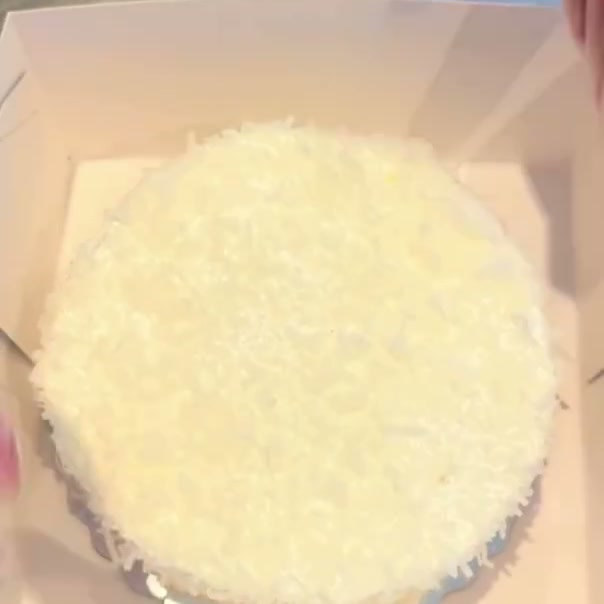
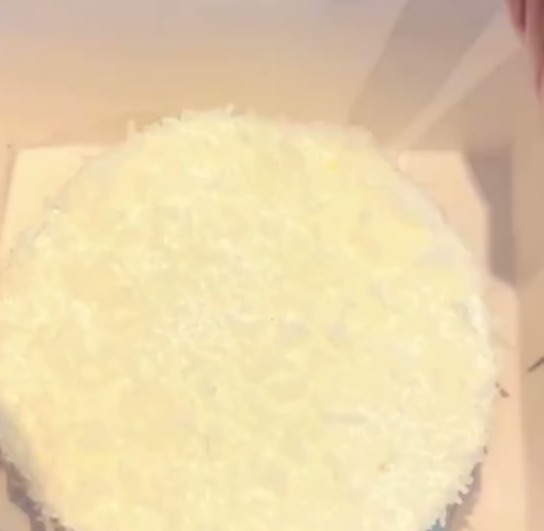
patticake-demo-polish: fix share cards, checkout math copy, and coconut hands

diff --git a/yumkitchen-web/app/patticake/checkout/page.tsx b/yumkitchen-web/app/patticake/checkout/page.tsx
@@ -53,6 +53,7 @@ export default function CheckoutPage() {
   const quote = quoteFor(itemsSubtotal, recipients.length);
   const total = quote.total;
   const errorEntries = Object.entries(errors);
+  const chosenDate = deliveryDate || minDate;
 
   useEffect(() => {
     if (validationAttempt === 0) return;
@@ -87,8 +88,8 @@ export default function CheckoutPage() {
       if (!r.state) next[`r${i}-state`] = 'Choose a state';
       if (!/^\d{5}$/.test(r.zip.trim())) next[`r${i}-zip`] = 'Enter a 5-digit ZIP';
     });
-    if (!deliveryDate) next.deliveryDate = 'Choose a delivery date';
-    else if (deliveryDate < minDate) next.deliveryDate = 'Choose a date at least three days out';
+    if (!chosenDate) next.deliveryDate = 'Choose a delivery date';
+    else if (chosenDate < minDate) next.deliveryDate = 'Choose a date at least three days out';
     if (!senderName.trim()) next.senderName = 'Add your name';
     if (!/^[^@\s]+@[^@\s]+\.[^@\s]+$/.test(senderEmail.trim())) next.senderEmail = 'Enter a valid email';
     if (card.number.replace(/\s/g, '').length < 15) next.cardNumber = 'Enter a card number';
@@ -109,7 +110,7 @@ export default function CheckoutPage() {
     const savedIds = recipients.map((r) => saveRecipient(r));
     await submitOrder({
       recipients: savedIds,
-      deliveryDate,
+      deliveryDate: chosenDate,
       cakeMessage: cakeMessage.trim(),
       giftMessage,
       senderName,
@@ -182,7 +183,9 @@ export default function CheckoutPage() {
           {/* Recipients */}
           <section aria-labelledby="ship-heading">
             <h2 id="ship-heading" className="text-h3 lowercase">who is it going to?</h2>
-            <p className="mt-1 text-base leading-7 text-body">Send one cake, or the same cake to several people at once.</p>
+            <p className="mt-1 text-base leading-7 text-body">
+              One box goes to one address. Add another address and that person gets their own cake, plus demo shipping.
+            </p>
 
             {usableSaved().length > 0 && (
               <div className="mt-4 flex flex-wrap gap-2">
@@ -301,13 +304,20 @@ export default function CheckoutPage() {
             <button
               type="button"
               onClick={() => {
+                if (recipients.length >= 6) return;
                 setRecipients((prev) => [...prev, blankRecipient()]);
                 setErrors({});
               }}
               className="btn-secondary mt-4"
+              disabled={recipients.length >= 6}
             >
               + Send to another address
             </button>
+            <p className="mt-2 text-sm leading-6 text-body">
+              {recipients.length >= 6
+                ? 'Six addresses is the demo maximum.'
+                : 'Each extra address adds another cake and the demo shipping rate.'}
+            </p>
           </section>
 
           {/* Delivery + gift */}
@@ -320,7 +330,7 @@ export default function CheckoutPage() {
                 name="delivery-date"
                 type="date"
                 min={minDate}
-                value={deliveryDate}
+                value={chosenDate}
                 onChange={(e) => {
                   setDeliveryDate(e.target.value);
                   clearError('deliveryDate');
@@ -337,12 +347,12 @@ export default function CheckoutPage() {
                 onChange={(e) => setCakeMessage(e.target.value)}
                 placeholder="love you"
               />
-              <span className="text-sm text-body">{cakeMessage.length}/28. Goes on top of the cake.</span>
+              <span className="text-sm text-body">{cakeMessage.length}/28. Goes on top of the cake. Same words for every address.</span>
             </label>
             <label className="field">
               <span>Gift note (optional)</span>
               <textarea rows={3} maxLength={240} value={giftMessage} onChange={(e) => setGiftMessage(e.target.value)} placeholder="Happy birthday! Wish we could share a slice with you." />
-              <span className="text-sm text-body">{giftMessage.length}/240. Travels with the box.</span>
+              <span className="text-sm text-body">{giftMessage.length}/240. Travels with the box. Same words for every address.</span>
             </label>
           </section>
 

diff --git a/yumkitchen-web/lib/site.ts b/yumkitchen-web/lib/site.ts
@@ -95,7 +95,7 @@ export const pageMeta = {
   },
   patticakeHome: {
     title: 'Patticake',
-    description: 'Ship a Cake, Pick Up Locally, and visit the yum! Kitchen and Bakery restaurant pages.',
+    description: "Patticake is yum!'s triple-layer chocolate cake, now available nationwide. Ship a Cake or Pick Up Locally.",
     image: '/og/patticake-home.jpg',
   },
   menu: {
@@ -120,7 +120,7 @@ export const pageMeta = {
   },
   patticakeDelivery: {
     title: 'Patticake Nationwide Delivery',
-    description: 'Patticake is now available nationwide. Choose your cake, add a delivery date and gift note, and check out on this page.',
+    description: 'Patticake is now available nationwide. Choose your cake, add a delivery date, cake words, and a gift note, and check out on this page.',
     image: '/og/patticake-ship.jpg',
   },
   about: {

diff --git a/yumkitchen-web/components/PatticakeMessagePreview.tsx b/yumkitchen-web/components/PatticakeMessagePreview.tsx
@@ -50,7 +50,7 @@ export function PatticakeMessagePreview({ formHref = '#cake-inquiry' }: Patticak
           <p className="section-label">message maker</p>
           <h2 className="text-h2 lowercase">make it sound like them</h2>
           <p className="mt-5 max-w-xl text-xl leading-9 text-body">
-            Patticake gets more personal with a few words on top. Pick a quick note or type your own, then drop it into your pickup note.
+            Patticake gets more personal with a few words on top. Pick a quick note or type your own, then drop it into your pickup note. Shipping nationwide? Add the words at checkout instead.
           </p>
           <div className="message-chip-grid" role="group" aria-label="Message ideas">
             {quickMessages.map((item) => (

diff --git a/yumkitchen-web/components/SiteShell.tsx b/yumkitchen-web/components/SiteShell.tsx
@@ -32,7 +32,17 @@ export function SiteShell({ children }: { children: ReactNode }) {
         <PageScrollProgress />
         <SiteHeader />
         <div id="main-content">{children}</div>
-        <SiteFooter />
+        <div
+          className={
+            pathname === '/order' || pathname === '/asset-gallery' || pathname.startsWith('/patticake/checkout')
+              ? undefined
+              : 'pb-24 md:pb-0'
+          }
+        >
+          {/* pb-24 clears the fixed MobileOrderBar on small screens. Skip it
+              where that bar is hidden so checkout does not end on empty cream. */}
+          <SiteFooter />
+        </div>
         <RestaurantTaskDock />
         <MobileOrderBar />
         {!patticakeNationalOrderIsExternal && <CartDrawer />}

diff --git a/yumkitchen-web/components/SiteFooter.tsx b/yumkitchen-web/components/SiteFooter.tsx
@@ -36,11 +36,8 @@ function eventForHref(href: string) {
 }
 
 export function SiteFooter() {
-  // pb-24 clears the fixed MobileOrderBar, which is md:hidden. Above md there
-  // is no bar to clear, so the padding goes away instead of leaving a ~128px
-  // empty band under the last footer row.
   return (
-    <footer className="border-t border-[#d8cfd1] bg-cream pb-24 md:pb-0">
+    <footer className="border-t border-[#d8cfd1] bg-cream">
       <EmailCapture />
       <div className="bg-blue-soft px-6 py-5">
         <div className="mx-auto flex max-w-[1240px] flex-wrap items-center gap-4">

diff --git a/yumkitchen-web/components/cart/CartDrawer.tsx b/yumkitchen-web/components/cart/CartDrawer.tsx
@@ -144,7 +144,7 @@ export function CartDrawer() {
                 </span>
                 <span className="font-serif text-2xl text-ink">{formatUsd(itemsSubtotal)}</span>
               </div>
-              <p className="mt-1 text-sm leading-6 text-body">Shipping and delivery date are set at checkout.</p>
+              <p className="mt-1 text-sm leading-6 text-body">Shipping, date, cake words, and gift note are set at checkout.</p>
               <Link href="/patticake/checkout" onClick={closeDrawer} className="btn-primary mt-4 w-full">
                 Checkout
               </Link>

diff --git a/yumkitchen-web/app/patticake/checkout/layout.tsx b/yumkitchen-web/app/patticake/checkout/layout.tsx
@@ -1,0 +1,13 @@
+import type { Metadata } from 'next';
+import type { ReactNode } from 'react';
+import { patticakeTitle } from '@/lib/site';
+
+export const metadata: Metadata = {
+  title: patticakeTitle('demo checkout'),
+  description: 'Demo checkout for Patticake nationwide delivery. No card is charged.',
+  robots: { index: false, follow: false },
+};
+
+export default function PatticakeCheckoutLayout({ children }: { children: ReactNode }) {
+  return children;
+}

diff --git a/yumkitchen-web/components/patticake/CakeBuyModule.tsx b/yumkitchen-web/components/patticake/CakeBuyModule.tsx
@@ -129,9 +129,7 @@ export function CakeBuyModule() {
                     alt={cake.imageAlt}
                     fill
                     sizes="150px"
-                    className={`object-cover ${
-                      cake.slug === 'coconut' ? 'scale-[1.32] object-[50%_46%]' : ''
-                    }`}
+                    className="object-cover"
                   />
                 </div>
                 <div className="pt-4 sm:pt-1">

diff --git a/yumkitchen-web/app/patticake/page.tsx b/yumkitchen-web/app/patticake/page.tsx
@@ -82,7 +82,7 @@ const deliveryFacts = [
   },
   {
     title: 'how it arrives',
-    copy: 'Patticake is packed with care, with a gift note tucked in and the cake ready to share.',
+    copy: 'Patticake is packed with care, with cake words on top, a gift note tucked in, and the cake ready to share.',
   },
 ] as const;
 
